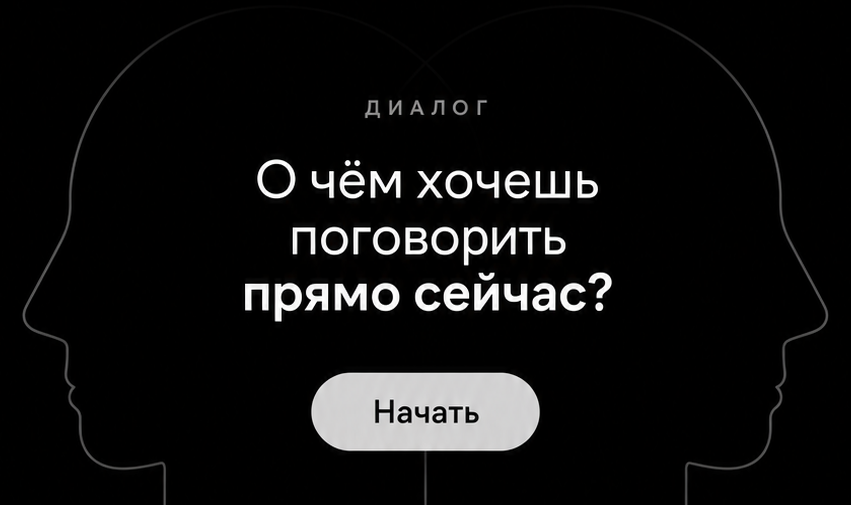
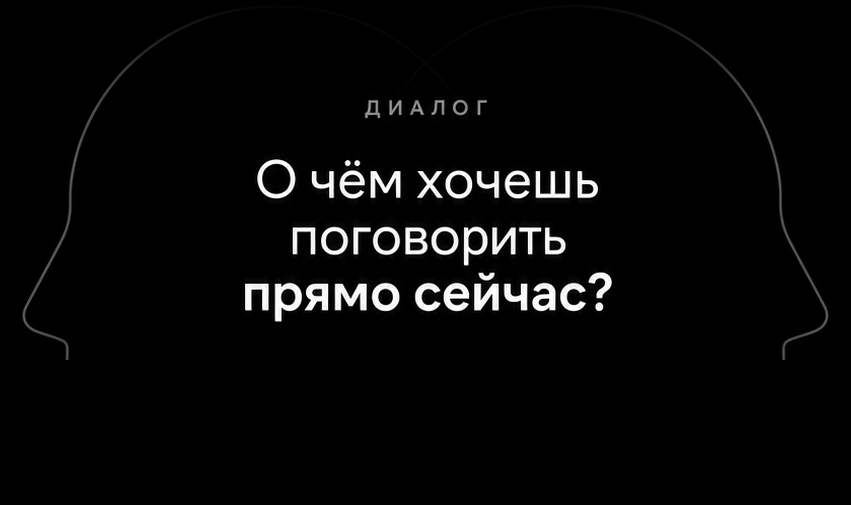
fix: stabilize mentor picker and fullscreen demo

diff --git a/src/screens/mentalix/PersonaPicker.jsx b/src/screens/mentalix/PersonaPicker.jsx
@@ -7,7 +7,7 @@ import { isPreviewDemoMode } from '../../lib/demoMode'
 
 import './PersonaPicker.css'
 
-const DEFAULT_INDEX = 0
+const DEFAULT_INDEX = 1
 
 // Визуальный порядок entry-карусели задан reference screenshot. Сами persona
 // keys и backend-контракт остаются прежними.
@@ -117,11 +117,11 @@ export default function PersonaPicker({ onPick }) {
                 aria-label={`${persona.name}: ${promise}`}
                 aria-current={isActive ? 'true' : undefined}
                 tabIndex={isActive ? 0 : -1}
-                onClick={() => startRole(persona)}
+                onClick={() => selectRole(index)}
                 onKeyDown={event => {
                   if (event.key === 'Enter' || event.key === ' ') {
                     event.preventDefault()
-                    startRole(persona)
+                    selectRole(index)
                   }
                 }}
               >
@@ -130,6 +130,17 @@ export default function PersonaPicker({ onPick }) {
                   <h3 className="mx-type-persona-title">{persona.name}</h3>
                   <p className="mx-dialog-card__promise">{promise}</p>
                   <p className="mx-dialog-card__description mx-type-persona-body">{description}</p>
+                  <button
+                    type="button"
+                    className="mx-dialog-card__start mx-type-control"
+                    onClick={event => {
+                      event.stopPropagation()
+                      startRole(persona)
+                    }}
+                    aria-label={`Начать разговор: ${persona.name}`}
+                  >
+                    Начать
+                  </button>
                 </div>
               </article>
             )
@@ -149,16 +160,6 @@ export default function PersonaPicker({ onPick }) {
           ))}
         </div>
       </section>
-      <div className="mx-dialog-start-dock">
-        <button
-          type="button"
-          className="mx-dialog-start cta-pill mx-type-control"
-          onClick={() => startRole(DISPLAY_PERSONAS[active])}
-          aria-label={`Начать разговор: ${DISPLAY_PERSONAS[active].name}`}
-        >
-          Начать {DISPLAY_PERSONAS[active].name}
-        </button>
-      </div>
     </main>
   )
 }

diff --git a/src/lib/fullscreenSurface.js b/src/lib/fullscreenSurface.js
@@ -73,7 +73,6 @@ export function useFullscreenSurface() {
   const viewportGeometry = useVisualViewportGeometry()
   const portalTarget = getFullscreenPortalTarget()
   const demoMode = isPreviewDemoMode()
-  const demoFrameHeight = demoMode ? portalTarget?.offsetHeight : null
   const demoScale =
     demoMode && portalTarget?.offsetHeight && portalTarget?.getBoundingClientRect
       ? portalTarget.getBoundingClientRect().height / portalTarget.offsetHeight
@@ -81,10 +80,10 @@ export function useFullscreenSurface() {
   const scale = Number.isFinite(demoScale) && demoScale > 0 ? demoScale : 1
   const viewportHeight = viewportGeometry?.height ?? null
   const viewportOffsetTop = viewportGeometry?.offsetTop ?? 0
-  const surfaceTop = demoMode ? viewportOffsetTop / scale : viewportOffsetTop
-  const visibleHeight = viewportHeight
-    ? Math.max(0, (viewportHeight - viewportOffsetTop) / scale)
-    : null
+  // visualViewport.height is already the visible height. Convert the single
+  // viewport snapshot into the portal target's coordinate space exactly once.
+  const surfaceTop = viewportOffsetTop / scale
+  const visibleHeight = viewportHeight ? viewportHeight / scale : null
 
   /*
    * MXL-FULLSCREEN-SURFACE-RACE-001 — раньше каждый экран независимо
@@ -117,14 +116,7 @@ export function useFullscreenSurface() {
 
     paddingBottom: 'var(--app-safe-bottom)',
 
-    height:
-      demoFrameHeight && visibleHeight
-        ? `${Math.min(demoFrameHeight, visibleHeight)}px`
-        : demoFrameHeight
-          ? `${demoFrameHeight}px`
-          : visibleHeight
-            ? `${visibleHeight}px`
-            : '100dvh',
+    height: visibleHeight ? `${visibleHeight}px` : '100dvh',
   }
 
   return {

diff --git a/src/screens/mentalix/PersonaPicker.css b/src/screens/mentalix/PersonaPicker.css
@@ -79,13 +79,6 @@ body:has(.mx-dialog-entry) {
   text-align: center;
 }
 
-.mx-dialog-start-dock {
-  flex: 0 0 auto;
-  padding: 10px var(--mx-space-5)
-    max(10px, var(--app-safe-bottom, env(safe-area-inset-bottom, 0px)));
-  background: rgb(var(--c-bg));
-}
-
 .mx-dialog-eyebrow,
 .mx-dialog-surface__kicker {
   margin: 0;
@@ -107,16 +100,6 @@ body:has(.mx-dialog-entry) {
 .mx-dialog-hero__content h1 {
   visibility: visible;
   opacity: 0;
-}
-
-.mx-dialog-start {
-  min-height: 46px;
-  width: 100%;
-  padding-inline: 28px;
-  border: 1px solid rgb(var(--c-border));
-  border-radius: var(--mx-radius-pill);
-  background: rgb(var(--c-text));
-  color: rgb(var(--c-bg));
 }
 
 .mx-dialog-surface {
@@ -243,6 +226,24 @@ body:has(.mx-dialog-entry) {
   width: 58px;
   height: 52px;
   opacity: 0.72;
+}
+
+.mx-dialog-card__start {
+  min-height: 38px;
+  margin: var(--mx-space-4) auto 0;
+  padding: 0 22px;
+  border: 1px solid rgb(var(--c-border) / 0.8);
+  border-radius: var(--mx-radius-pill);
+  background: rgb(var(--c-text));
+  color: rgb(var(--c-bg));
+  font-size: 0.9rem;
+  font-weight: 600;
+  white-space: nowrap;
+}
+
+.mx-dialog-card__start:focus-visible {
+  outline: 2px solid rgb(var(--c-gold));
+  outline-offset: 3px;
 }
 
 .mx-dialog-card__body {
@@ -418,7 +419,7 @@ body:has(.mx-dialog-entry) {
 @media (prefers-reduced-motion: reduce) {
   .mx-dialog-card,
   .mx-dialog-dots button span,
-  .mx-dialog-start {
+  .mx-dialog-card__start {
     transition: none;
   }
 }

diff --git a/src/screens/mentalix/Conversation.jsx b/src/screens/mentalix/Conversation.jsx
@@ -478,6 +478,10 @@ export default function Conversation({
 
             placeholder={`Написать ${meta.name}…`}
 
+            name="mentor-message"
+            autoComplete="off"
+            autoCapitalize="sentences"
+            enterKeyHint="send"
             className="mx-ai-input flex-1 min-w-0 bg-transparent border-0 outline-none pl-4 pr-2 text-cream placeholder:text-faint"
           />
 

diff --git a/src/screens/mentalix/Conversation.css b/src/screens/mentalix/Conversation.css
@@ -100,6 +100,13 @@
   transform: scale(0.975);
 }
 
+.mx-ai-input {
+  min-width: 0;
+  font-size: 16px;
+  color: rgb(var(--c-cream));
+  accent-color: rgb(var(--c-gold));
+}
+
 .mx-ai-composer .mx-ai-input:focus,
 .mx-ai-composer .mx-ai-input:focus-visible {
   outline: 0;
